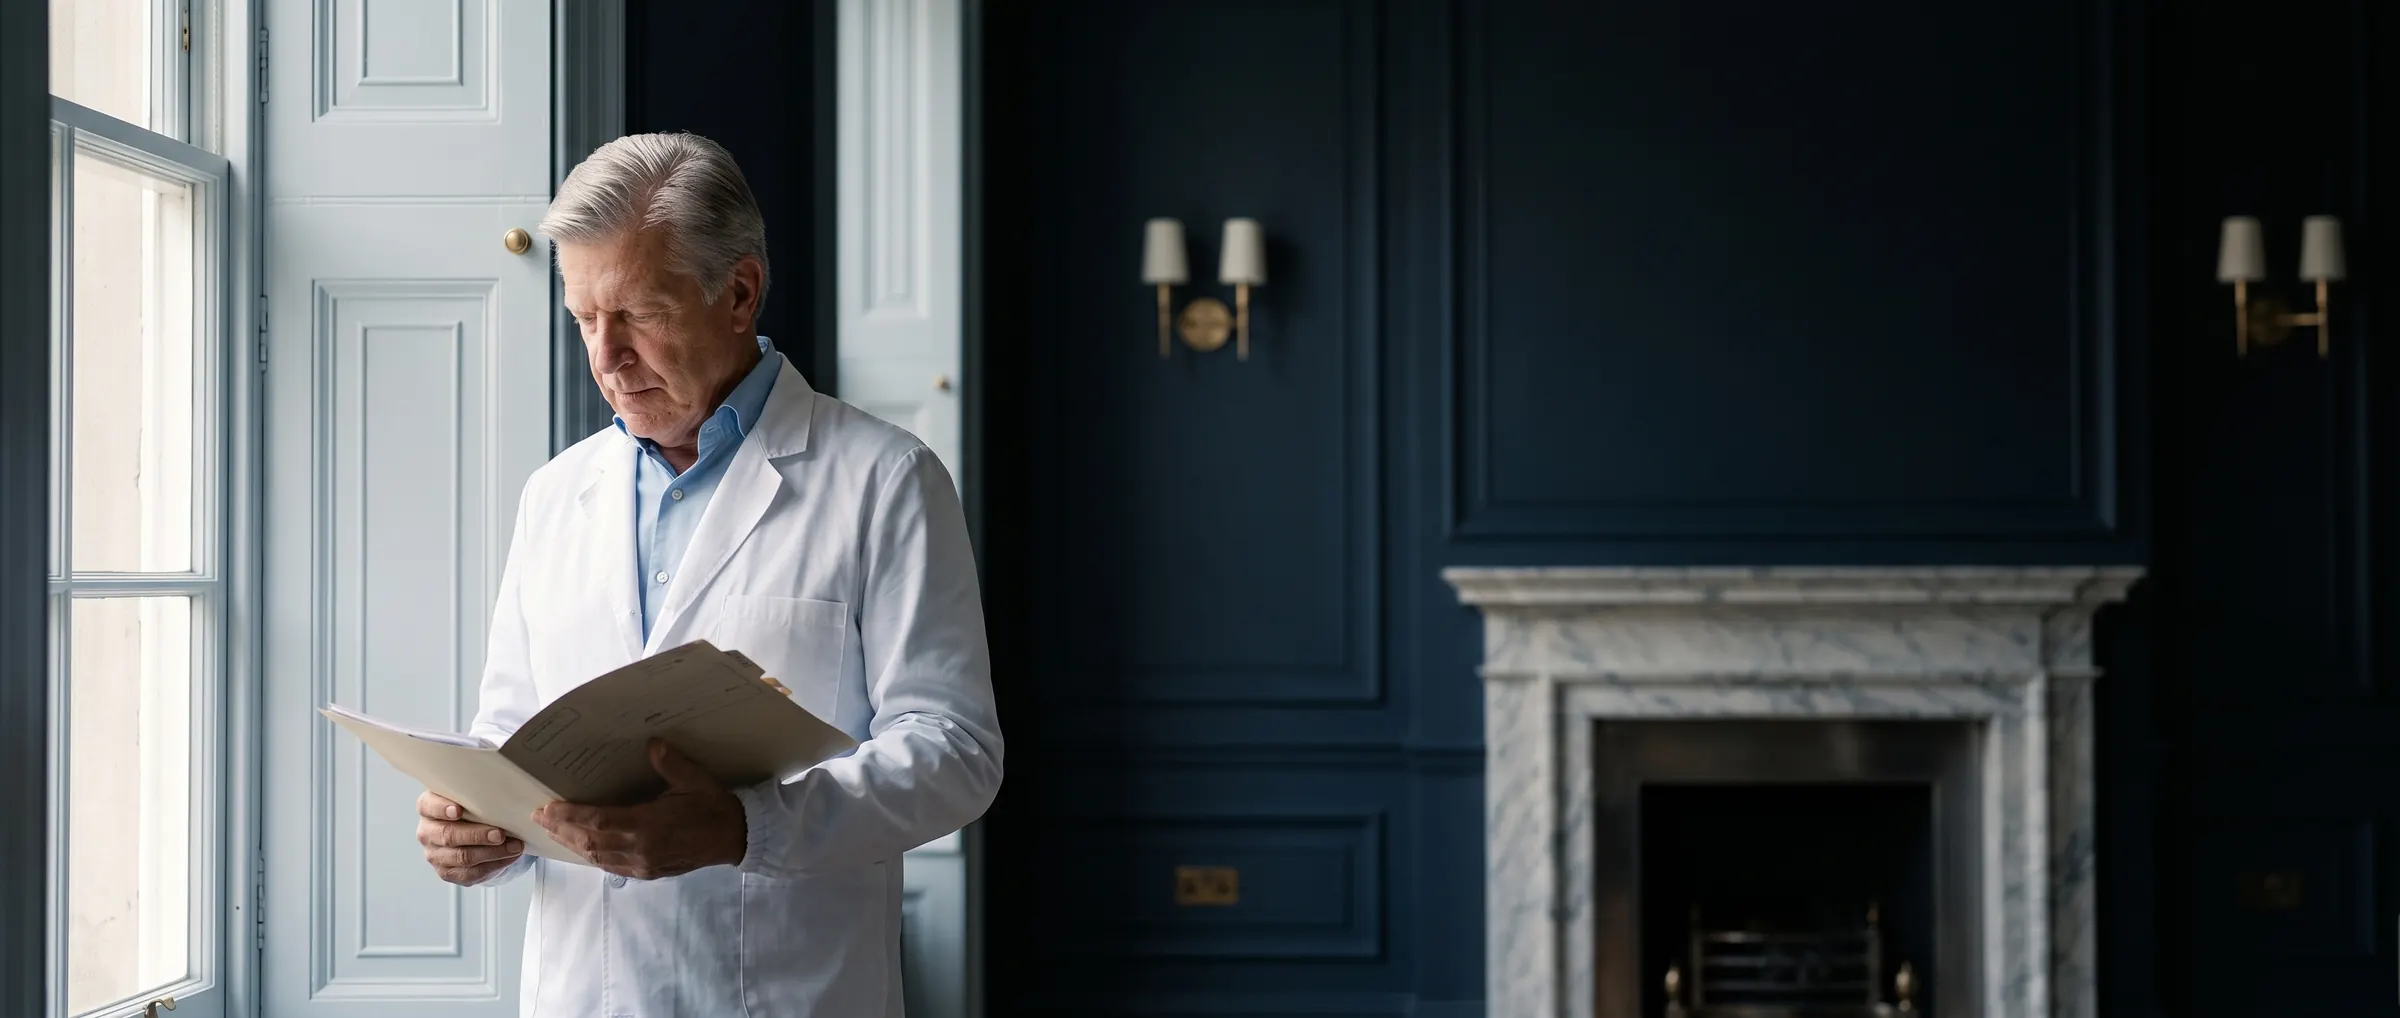
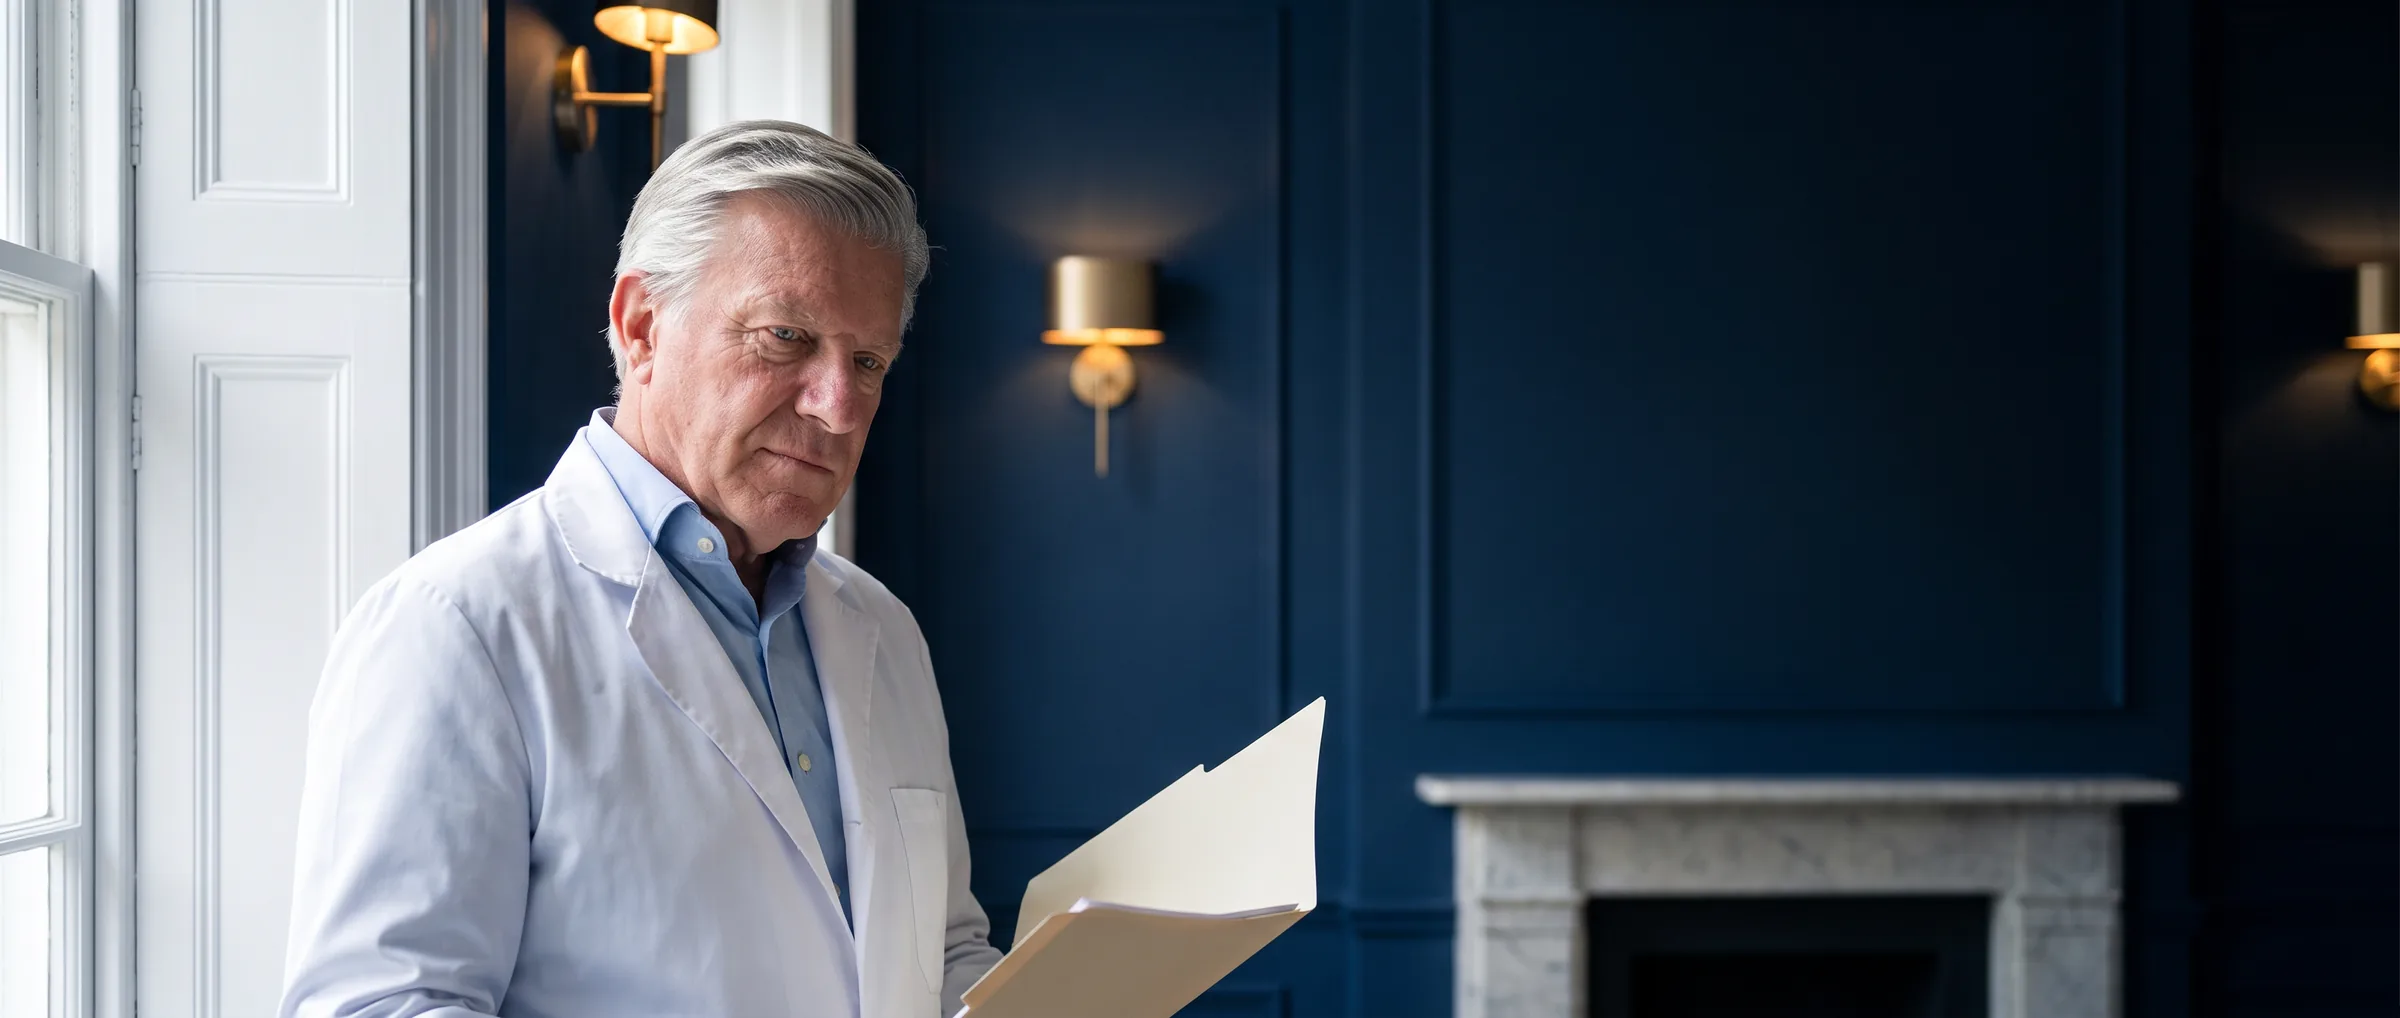
Why section: Dr Davide turned towards the text
Claude-Session: https://claude.ai/code/session_019KQCts2FkhKi3aSKtVh8HP

diff --git a/site/assets/css/styles.css b/site/assets/css/styles.css
@@ -663,7 +663,7 @@ body.menu-open .site-header .icon-btn { border-color: rgba(255, 255, 255, .4); b
     linear-gradient(180deg, var(--navy-ink), var(--navy-deep));
 }
 .why-media { position: absolute; top: -8%; bottom: -8%; left: 0; width: 58%; z-index: -2; }
-.why-media img { width: 100%; height: 100%; object-fit: cover; object-position: 24% 35%; }
+.why-media img { width: 100%; height: 100%; object-fit: cover; object-position: 31% 30%; }
 .why::before {
   content: ""; position: absolute; top: 0; bottom: 0; left: 0; width: 58%; z-index: -1;
   background: linear-gradient(90deg, rgba(14, 28, 46, 0) 0%, rgba(14, 28, 46, 0) 45%, rgba(14, 28, 46, .85) 85%, var(--navy-ink) 100%);
